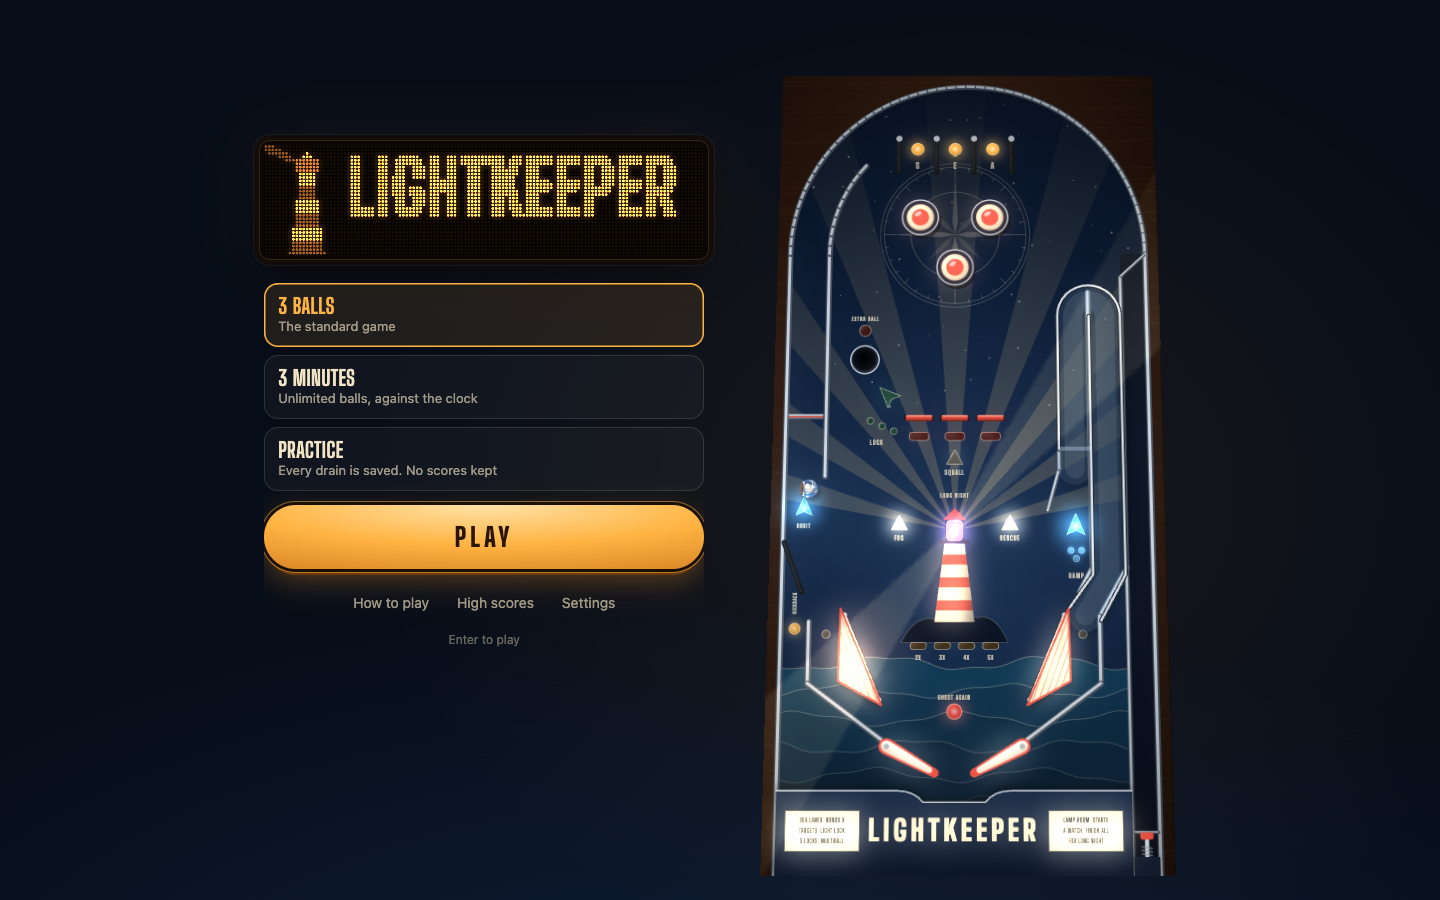
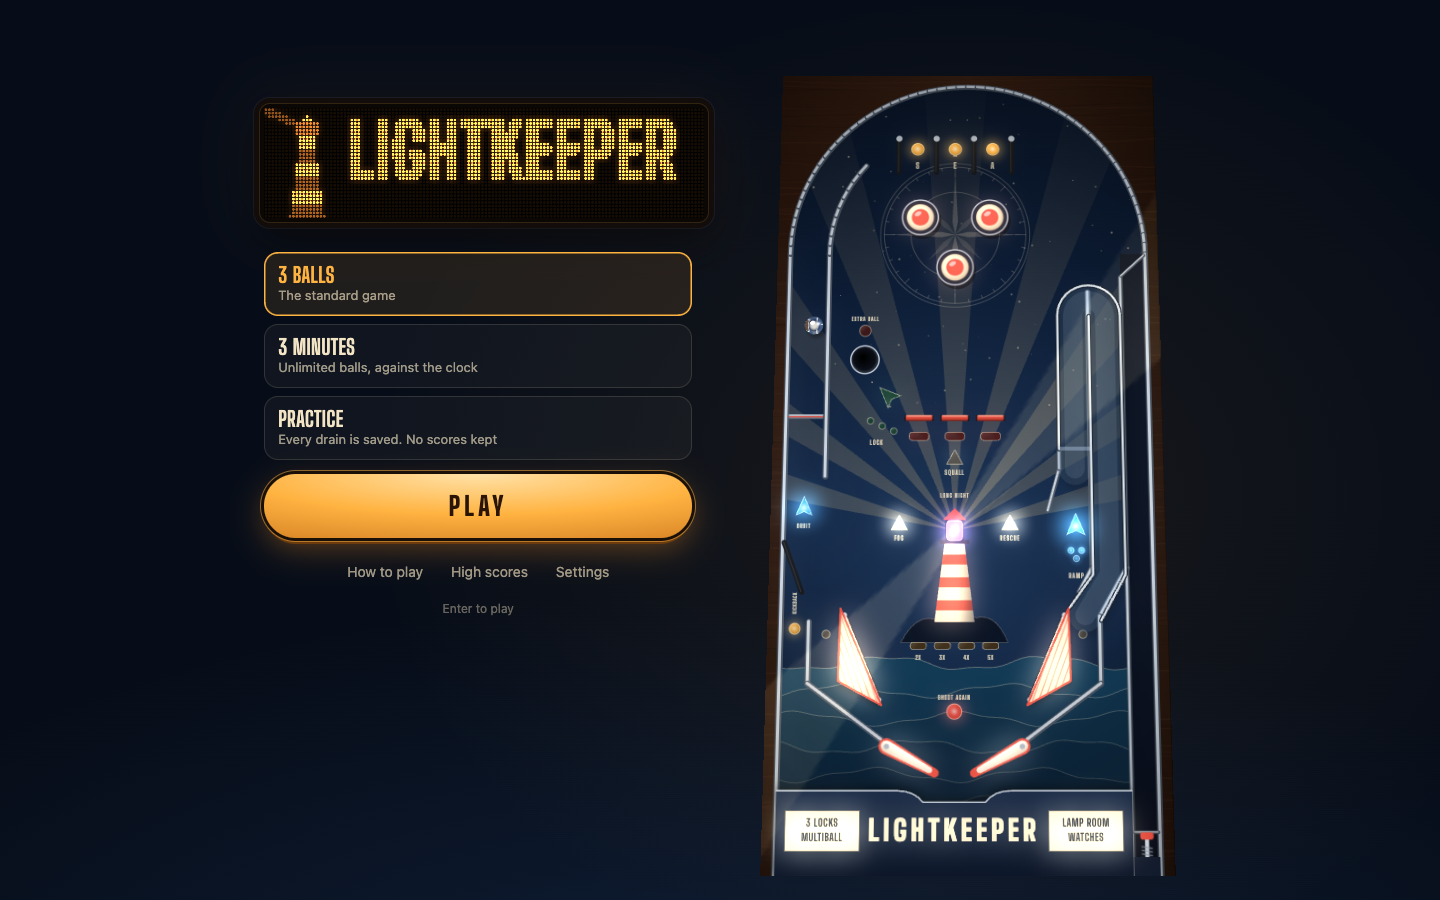
Design review fixes: compact menus, readable sheets, lamp-style watch status, 44px targets

diff --git a/src/style.css b/src/style.css
@@ -52,15 +52,15 @@ body.playing #stage { display: block; }
 button { font: inherit; color: inherit; background: none; border: 0; cursor: pointer; }
 button:focus-visible, input:focus-visible { outline: 2px solid var(--amber); outline-offset: 3px; }
 
-#panel { position: fixed; z-index: 3; display: flex; flex-direction: column; gap: 18px; }
+#panel { position: fixed; z-index: 3; display: flex; flex-direction: column; gap: 18px; padding: 6px; margin-left: -6px; }
 body.tall #panel {
   left: 0; right: 0; bottom: 0;
   padding: 48px max(16px, env(safe-area-inset-left)) calc(18px + env(safe-area-inset-bottom));
-  background: linear-gradient(to top, rgba(7, 13, 24, 0.97) 55%, rgba(7, 13, 24, 0.75) 80%, transparent);
+  background: linear-gradient(to top, #070d18 0%, #070d18 82%, transparent);
   align-items: center;
 }
 body.tall.playing #panel { display: none; }
-body.wide #panel, body.short #panel { overflow: auto; scrollbar-width: none; }
+body.short #panel { overflow: auto; scrollbar-width: none; padding: 6px 8px 24px; margin-left: -8px; }
 
 #menu { display: flex; flex-direction: column; gap: 14px; width: 100%; max-width: 440px; }
 body.playing #menu, body.replay #menu, body.over #menu { display: none; }
@@ -94,12 +94,16 @@ body:not(.playing) #info { display: none; }
 @keyframes breathe { 50% { box-shadow: 0 0 0 3px #1a1007, 0 0 0 4px rgba(255, 179, 65, 0.8), 0 6px 0 #6b3a0d, 0 10px 44px rgba(255, 150, 40, 0.6); } }
 
 .modedesc { display: none; margin: -4px 0 0; text-align: center; color: var(--dim); font-size: 13px; }
-body.tall .modes { grid-template-columns: repeat(3, 1fr); }
-body.tall .modes button { grid-template-columns: 1fr; text-align: center; padding: 10px 6px; }
-body.tall .modes b { font-size: 18px; }
-body.tall .modes span { display: none; }
-body.tall .modes em { grid-row: auto; grid-column: 1; font-size: 13px; min-height: 1em; }
-body.tall .modedesc { display: block; }
+body.tall .modes, body.short .modes { grid-template-columns: repeat(3, 1fr); }
+body.tall .modes button, body.short .modes button { grid-template-columns: 1fr; text-align: center; padding: 10px 6px; }
+body.tall .modes button { background: #0d1526; }
+body.tall .modes button[aria-checked='true'] { background: #2a2214; }
+body.tall .modes b, body.short .modes b { font-size: 18px; }
+body.tall .modes span, body.short .modes span { display: none; }
+body.tall .modes em, body.short .modes em { grid-row: auto; grid-column: 1; font-size: 13px; min-height: 1em; }
+body.tall .modedesc, body.short .modedesc { display: block; }
+body.short .play { height: 48px; font-size: 22px; }
+body.short #menu { gap: 10px; }
 body.tall #panel { gap: 12px; }
 body.tall .play { height: 56px; }
 .links { display: flex; justify-content: center; gap: 4px; flex-wrap: wrap; }
@@ -109,21 +113,25 @@ body.tall .play { height: 56px; }
 @media (pointer: coarse) { .keyhint { display: none; } }
 
 #info { display: flex; flex-direction: column; gap: 18px; }
-#info dl { margin: 0; display: grid; grid-template-columns: repeat(4, 1fr); gap: 8px; }
-#info dl div { padding: 10px 12px; border-radius: 12px; box-shadow: inset 0 0 0 1px var(--faint); }
-#info dt { color: var(--dim); font-size: 12px; text-transform: uppercase; letter-spacing: 0.08em; }
-#info dd { margin: 2px 0 0; font: 700 22px/1.1 var(--display); font-variant-numeric: tabular-nums; }
+#info dl { margin: 0; display: grid; grid-template-columns: repeat(3, 1fr); gap: 0; border-top: 1px solid var(--faint); border-bottom: 1px solid var(--faint); }
+#info dl div { padding: 12px 4px; }
+#info dl div + div { border-left: 1px solid var(--faint); padding-left: 16px; }
+#info dt { color: var(--dim); font: 600 15px var(--display); text-transform: uppercase; letter-spacing: 0.1em; }
+#info dd { margin: 2px 0 0; color: var(--amber); font: 800 30px/1.1 var(--display); font-variant-numeric: tabular-nums; }
 .watches { list-style: none; margin: 0; padding: 0; display: grid; grid-template-columns: repeat(4, 1fr); gap: 6px; }
-.watches li { text-align: center; padding: 8px 4px; border-radius: 10px; font: 600 15px var(--display); text-transform: uppercase; letter-spacing: 0.05em; color: var(--dim); box-shadow: inset 0 0 0 1px var(--faint); }
-.watches li.on { color: #120a02; background: var(--amber); box-shadow: none; animation: blink 0.5s steps(2) infinite; }
-.watches li.done { color: var(--amber); box-shadow: inset 0 0 0 1.5px rgba(255, 179, 65, 0.6); }
+.watches li { display: flex; flex-direction: column; align-items: center; gap: 8px; font: 600 15px var(--display); text-transform: uppercase; letter-spacing: 0.05em; color: var(--dim); }
+.watches li::before { content: ''; width: 22px; height: 22px; border-radius: 50%; background: radial-gradient(circle at 40% 35%, #4a3a20, #1c140a); box-shadow: inset 0 0 0 1.5px rgba(242, 228, 196, 0.35); }
+.watches li.done { color: var(--ink); }
+.watches li.done::before, .watches li.on::before { background: radial-gradient(circle at 40% 35%, #fff4d6, var(--amber) 45%, var(--amber-deep)); box-shadow: 0 0 14px rgba(255, 179, 65, 0.7); }
+.watches li.on { color: var(--amber); }
+.watches li.on::before { animation: blink 0.5s steps(2) infinite; }
 @keyframes blink { 50% { opacity: 0.55; } }
 .keys { color: var(--dim); font-size: 13px; display: grid; gap: 6px; }
 .keys p { margin: 0; }
 .keys .or { opacity: 0.6; }
 kbd { font: 600 12px var(--body); padding: 2px 6px; border-radius: 5px; color: var(--ink); box-shadow: inset 0 0 0 1px rgba(242, 228, 196, 0.3), 0 1px 0 rgba(242, 228, 196, 0.25); }
 @media (pointer: coarse) { .keys { display: none; } }
-body.short #info dl { grid-template-columns: repeat(2, 1fr); }
+
 
 .icon { position: fixed; z-index: 4; width: 44px; height: 44px; border-radius: 50%; display: grid; place-items: center; background: rgba(9, 16, 30, 0.7); box-shadow: inset 0 0 0 1px var(--faint); backdrop-filter: blur(8px); -webkit-backdrop-filter: blur(8px); }
 .icon[hidden] { display: none; }
@@ -166,6 +174,12 @@ button.primary:hover { background: #ffc263; }
 .close { width: 100%; margin-top: 18px; }
 .danger { width: 100%; margin-top: 16px; color: #ff9d8f; }
 
+.pair { display: grid; grid-template-columns: 1fr 1fr; gap: 8px; }
+.stack button.text { background: none; box-shadow: none; color: var(--dim); }
+#o-init::placeholder { color: rgba(255, 179, 65, 0.3); }
+#rotate { position: fixed; inset: 0; z-index: 30; display: none; place-items: center; text-align: center; padding: 24px; background: var(--bg); font: 700 26px var(--display); text-transform: uppercase; letter-spacing: 0.06em; }
+#rotate span { display: block; margin-top: 8px; font: 15px var(--body); text-transform: none; letter-spacing: 0; color: var(--dim); }
+@media (pointer: coarse) { body.short.playing #rotate { display: grid; } }
 .final { margin: 0; font: 800 56px/1 var(--display); color: var(--amber); font-variant-numeric: tabular-nums; letter-spacing: 0.02em; }
 .note { margin: 6px 0 18px; color: var(--dim); }
 #initials { margin: 0 0 16px; display: grid; gap: 8px; }
@@ -201,6 +215,8 @@ button.primary:hover { background: #ffc263; }
 input[type='range'] { width: 52%; accent-color: var(--amber); }
 input[type='checkbox'] { width: 22px; height: 22px; accent-color: var(--amber); }
 .seg { display: flex; padding: 3px; border-radius: 10px; box-shadow: inset 0 0 0 1px var(--faint); }
+.seg button, #replaybar button, .tabs button { min-height: 44px; }
+.row:has(input[type='checkbox']) { min-height: 56px; cursor: pointer; }
 .seg button { padding: 7px 11px; border-radius: 8px; font-size: 13px; color: var(--dim); }
 .seg button[aria-pressed='true'] { background: rgba(242, 228, 196, 0.14); color: var(--ink); }
 .credit { margin: 14px 0 0; font-size: 12px; color: var(--dim); }
@@ -211,6 +227,6 @@ input[type='checkbox'] { width: 22px; height: 22px; accent-color: var(--amber); 
 #nogl[hidden] { display: none; }
 
 @media (prefers-reduced-motion: reduce) {
-  .play, .watches li.on, #replaybar .dot { animation: none; }
+  .play, .watches li.on::before, #replaybar .dot { animation: none; }
   dialog.sheet[open] { animation: none; }
 }

diff --git a/src/main.ts b/src/main.ts
@@ -59,7 +59,7 @@ function doLayout() {
     const side = Math.max(260, Math.min(440, vw - tw - gap - pad * 2));
     const x0 = Math.max(pad, (vw - (side + gap + tw)) / 2);
     tx = x0 + side + gap; ty = pad;
-    dw = side; dh = side / 4; dx = x0; dy = pad + Math.max(0, (th - dh - 440) * 0.4);
+    dw = side; dh = side / 4; dx = x0; dy = Math.max(pad, (vh - dh - 28 - panel.scrollHeight) / 2);
     Object.assign(panel.style, { left: dx + 'px', top: dy + dh + 28 + 'px', width: side + 'px', bottom: pad + 'px', right: '', padding: '' });
     Object.assign(pause.style, { left: tx + tw - 56 + 'px', top: ty + 12 + 'px' });
   } else if (vw > vh) {
@@ -74,14 +74,14 @@ function doLayout() {
   } else {
     layout = 'tall';
     dh = Math.max(52, Math.min(130, vh * 0.085)); dw = dh * 4;
-    if (dw > vw - pad * 2 - 56) { dw = vw - pad * 2 - 56; dh = dw / 4; }
+    if (dw > vw - pad * 2 - 112) { dw = vw - pad * 2 - 112; dh = dw / 4; }
     dy = st + 8; dx = (vw - dw) / 2;
     const top = dy + dh + 10;
     const avail = vh - top - Math.max(sb, 6);
     th = Math.min(avail, (vw - 8) / ratio); tw = th * ratio;
     tx = (vw - tw) / 2; ty = top;
     Object.assign(panel.style, { left: '', top: '', width: '', bottom: '', right: '', padding: '' });
-    Object.assign(pause.style, { left: Math.min(vw - 52, dx + dw + 8) + 'px', top: dy + (dh - 44) / 2 + 'px' });
+    Object.assign(pause.style, { left: dx + dw + 12 + 'px', top: dy + (dh - 44) / 2 + 'px' });
   }
   follow = th > vh + 2;
   body.classList.remove('tall', 'wide', 'short');
@@ -121,6 +121,7 @@ function newSession(kind: Kind, mode: Mode, seed = (Math.random() * 2 ** 32) >>>
 }
 
 function startDemo() {
+  queueMicrotask(doLayout);
   sess = newSession('demo', 'practice', 12345);
   body.classList.remove('playing', 'replay', 'over');
   $('#pause').hidden = true;
@@ -132,6 +133,7 @@ function startDemo() {
 }
 
 function startGame(mode: Mode = settings.mode) {
+  queueMicrotask(doLayout);
   closeDialogs();
   sess = newSession('play', mode);
   paused = false;
@@ -174,6 +176,7 @@ async function wake(on: boolean) {
 const pollPads = bindInput(stage, onAction, () => !!sess?.game.world.laneBall() && sess.kind === 'play', () => sess?.kind === 'play' && !paused && !sess.game.over && !anyDialog());
 
 function onAction(a: Action, t: number) {
+  if (layout === 'short' && matchMedia('(pointer: coarse)').matches && sess.kind === 'play') return;
   audio.unlock();
   if (a === 'any') return;
   if (a === 'pause') {
@@ -502,7 +505,6 @@ function updateInfo() {
   const key = [g.ball, g.mult, g.locks, g.lockLit, g.ramps, g.watch, [...g.watchDone].join(), g.mode, g.extraBalls].join('|');
   if (key === infoKey) return;
   infoKey = key;
-  $('#i-ball').textContent = g.mode === 'classic' ? `${g.ball} of ${g.balls}` : g.mode === 'timed' ? '∞' : '∞';
   $('#i-mult').textContent = `${g.mult}×`;
   $('#i-locks').textContent = g.lockLit ? 'Lit' : `${g.locks} of 3`;
   $('#i-ramps').textContent = String(g.ramps);

diff --git a/index.html b/index.html
@@ -43,7 +43,6 @@
   </div>
   <div id="info" hidden>
     <dl>
-      <div><dt>Ball</dt><dd id="i-ball">1</dd></div>
       <div><dt>Bonus</dt><dd id="i-mult">1×</dd></div>
       <div><dt>Locks</dt><dd id="i-locks">0 of 3</dd></div>
       <div><dt>Ramps</dt><dd id="i-ramps">0</dd></div>
@@ -91,15 +90,14 @@
   <form id="initials" hidden>
     <label for="o-init">Initials for the high score table</label>
     <div class="initrow">
-      <input id="o-init" maxlength="3" autocomplete="off" autocapitalize="characters" spellcheck="false" inputmode="text" pattern="[A-Za-z0-9]{1,3}" required>
+      <input id="o-init" placeholder="AAA" maxlength="3" autocomplete="off" autocapitalize="characters" spellcheck="false" inputmode="text" pattern="[A-Za-z0-9]{1,3}" required>
       <button class="primary" type="submit">Save</button>
     </div>
   </form>
   <div class="stack">
     <button class="primary" data-act="again">Play again</button>
-    <button data-act="replay">Watch the replay</button>
-    <button data-act="share">Copy replay link</button>
-    <button data-act="quit">Menu</button>
+    <div class="pair"><button data-act="replay">Watch replay</button><button data-act="share">Copy link</button></div>
+    <button class="text" data-act="quit">Back to menu</button>
   </div>
 </dialog>
 
@@ -147,6 +145,7 @@
   <button class="primary close" data-close>Done</button>
 </dialog>
 
+<div id="rotate"><p>Turn your phone upright<span>The table needs the height. The game is paused until you do.</span></p></div>
 <div id="toast" role="status" aria-live="polite"></div>
 <div id="nogl" hidden><p>Lightkeeper needs WebGL 2, which this browser doesn't offer. A current Chrome, Safari, Firefox or Edge will run it.</p></div>
 <script type="module" src="/src/main.ts"></script>

diff --git a/src/bake.ts b/src/bake.ts
@@ -366,10 +366,10 @@ function paintOver(k: number): HTMLCanvasElement {
     g.fillStyle = C.paper; g.fillRect(x, 1140, 108, 56);
     g.strokeStyle = 'rgba(0,0,0,0.4)'; g.lineWidth = 1; g.strokeRect(x, 1140, 108, 56);
   }
-  const cardL = ['SEA LANES  BONUS X', 'TARGETS  LIGHT LOCK', '3 LOCKS  MULTIBALL'];
-  const cardR = ['LAMP ROOM  STARTS', 'A WATCH  FINISH ALL', 'FOR LONG NIGHT'];
-  cardL.forEach((s, i) => text(g, s, 88, 1154 + i * 14, 9, C.ink, 700, 0, 0.04));
-  cardR.forEach((s, i) => text(g, s, 472, 1154 + i * 14, 9, C.ink, 700, 0, 0.04));
+  const cardL = ['3 LOCKS', 'MULTIBALL'];
+  const cardR = ['LAMP ROOM', 'WATCHES'];
+  cardL.forEach((s, i) => text(g, s, 88, 1158 + i * 20, 15, C.ink, 800, 0, 0.04));
+  cardR.forEach((s, i) => text(g, s, 472, 1158 + i * 20, 15, C.ink, 800, 0, 0.04));
   // Shooter lane housing.
   g.fillStyle = '#121b2c'; g.fillRect(541, 1204, 38, 30);
   return c;
